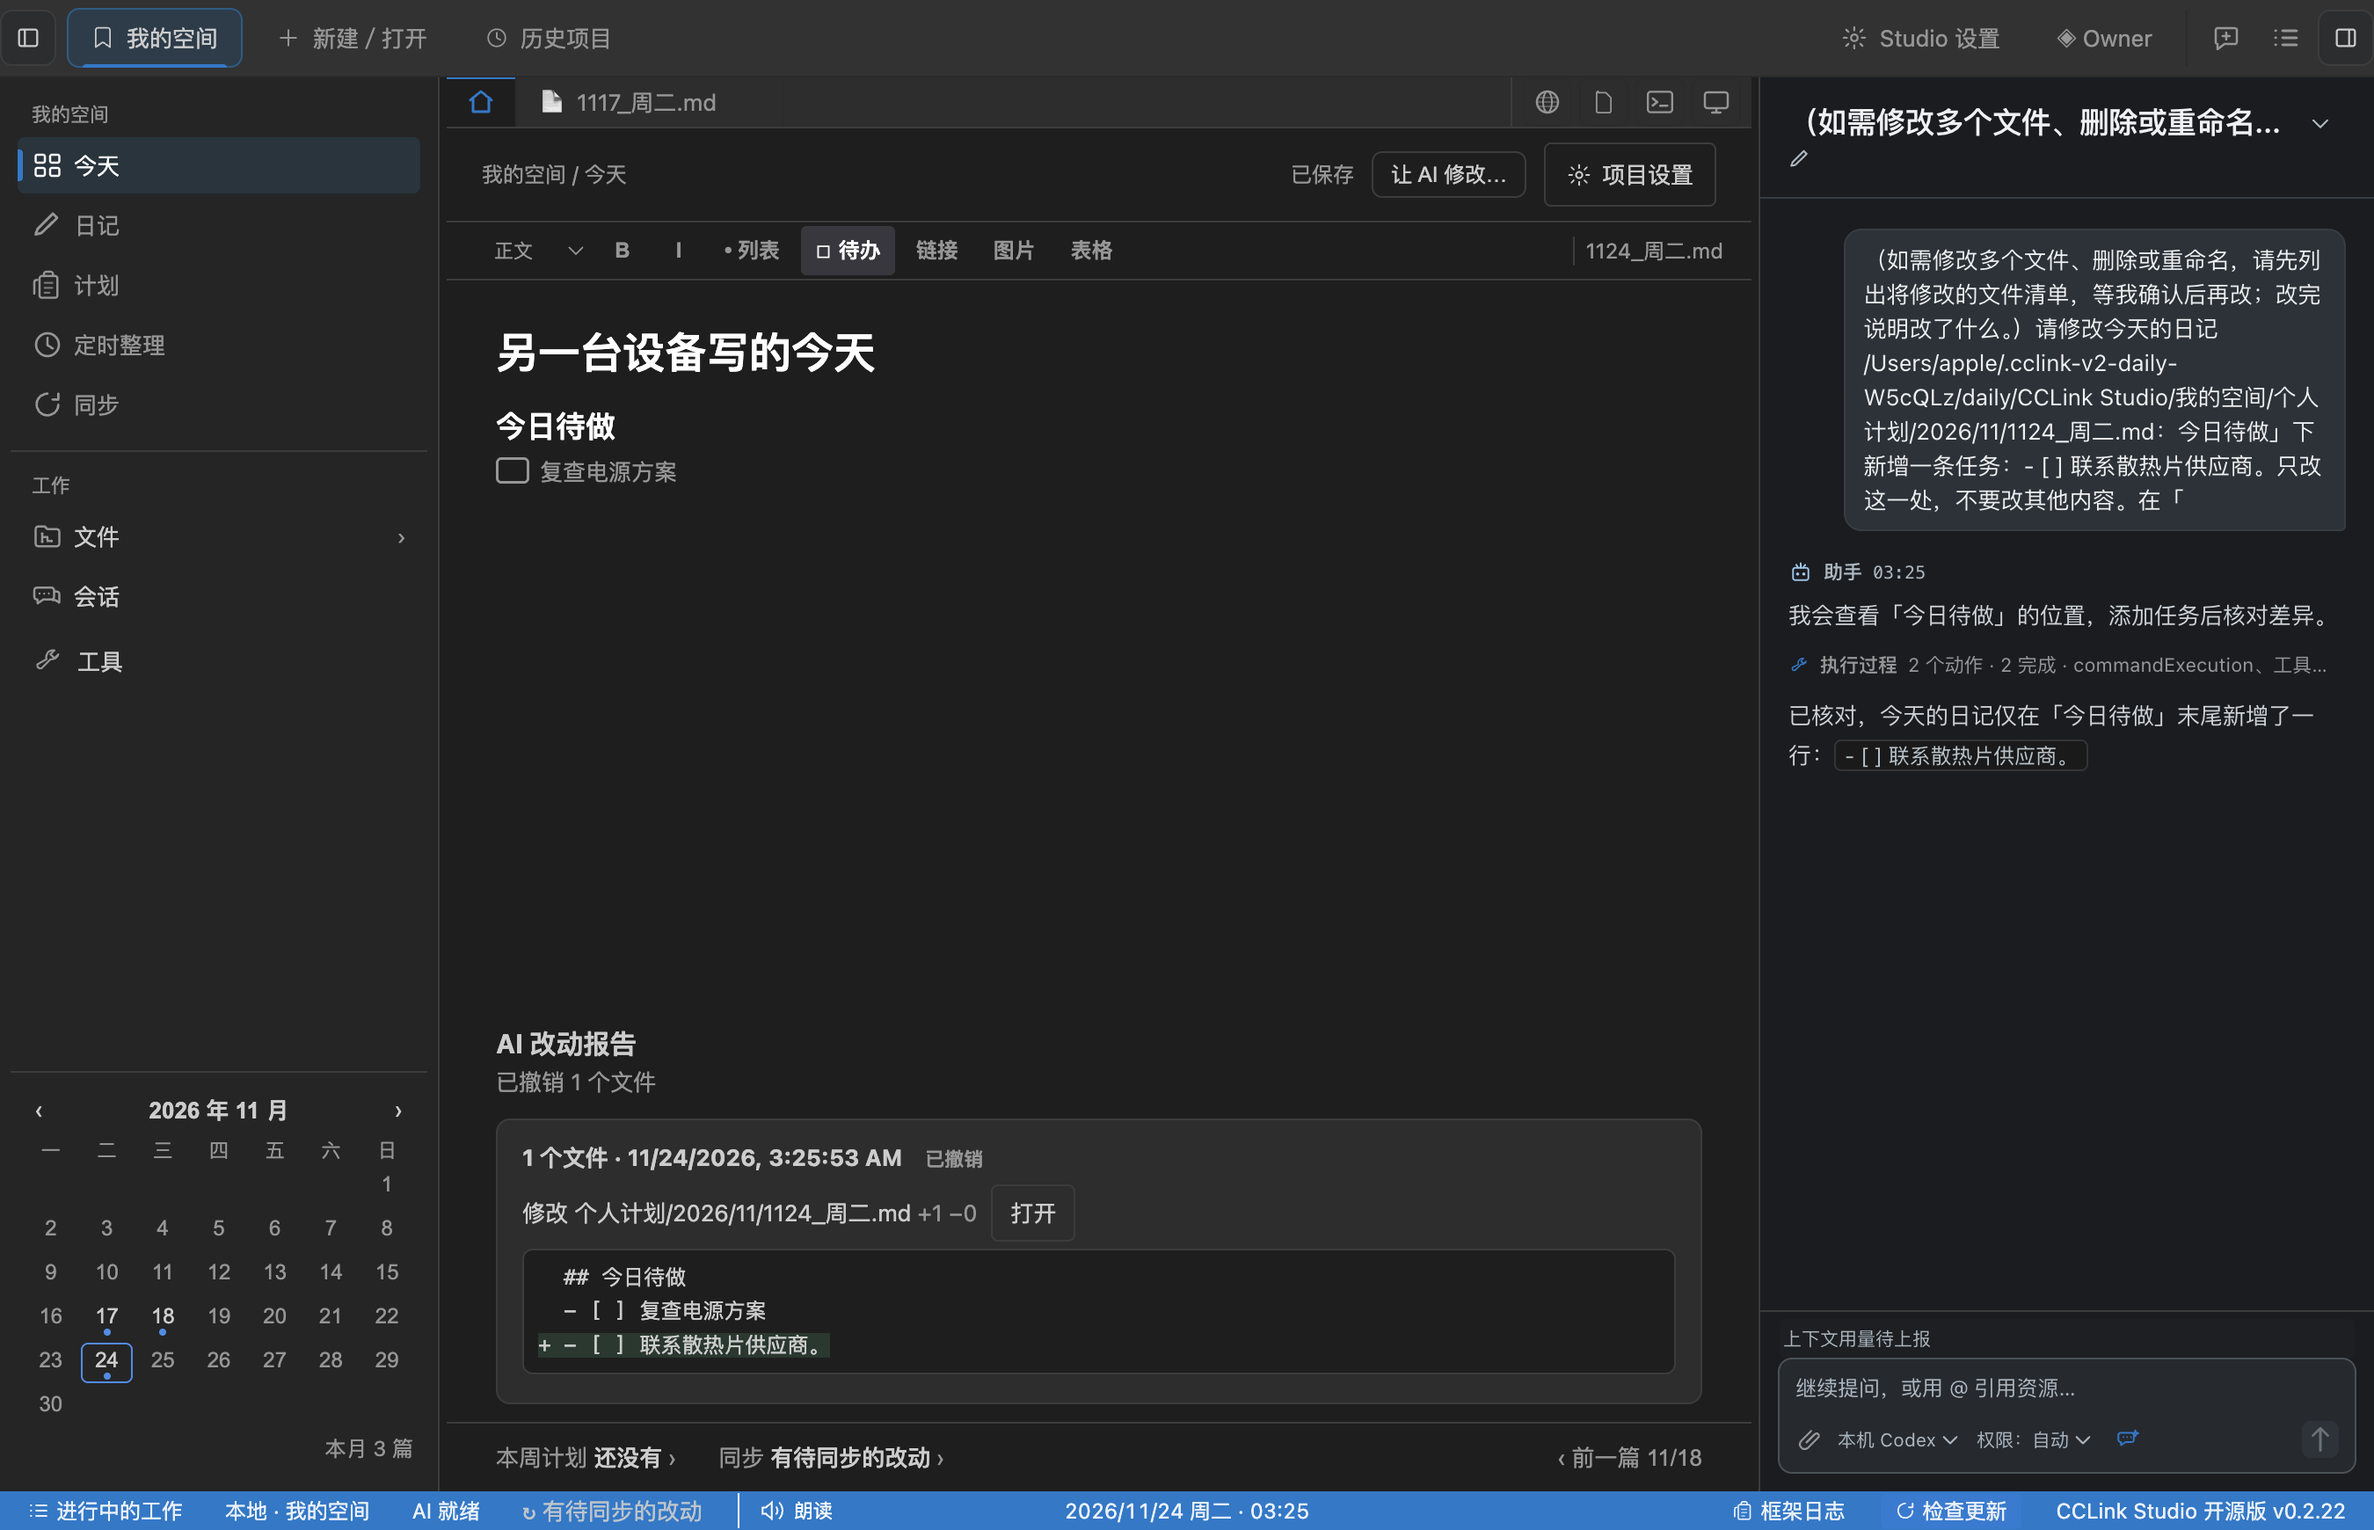
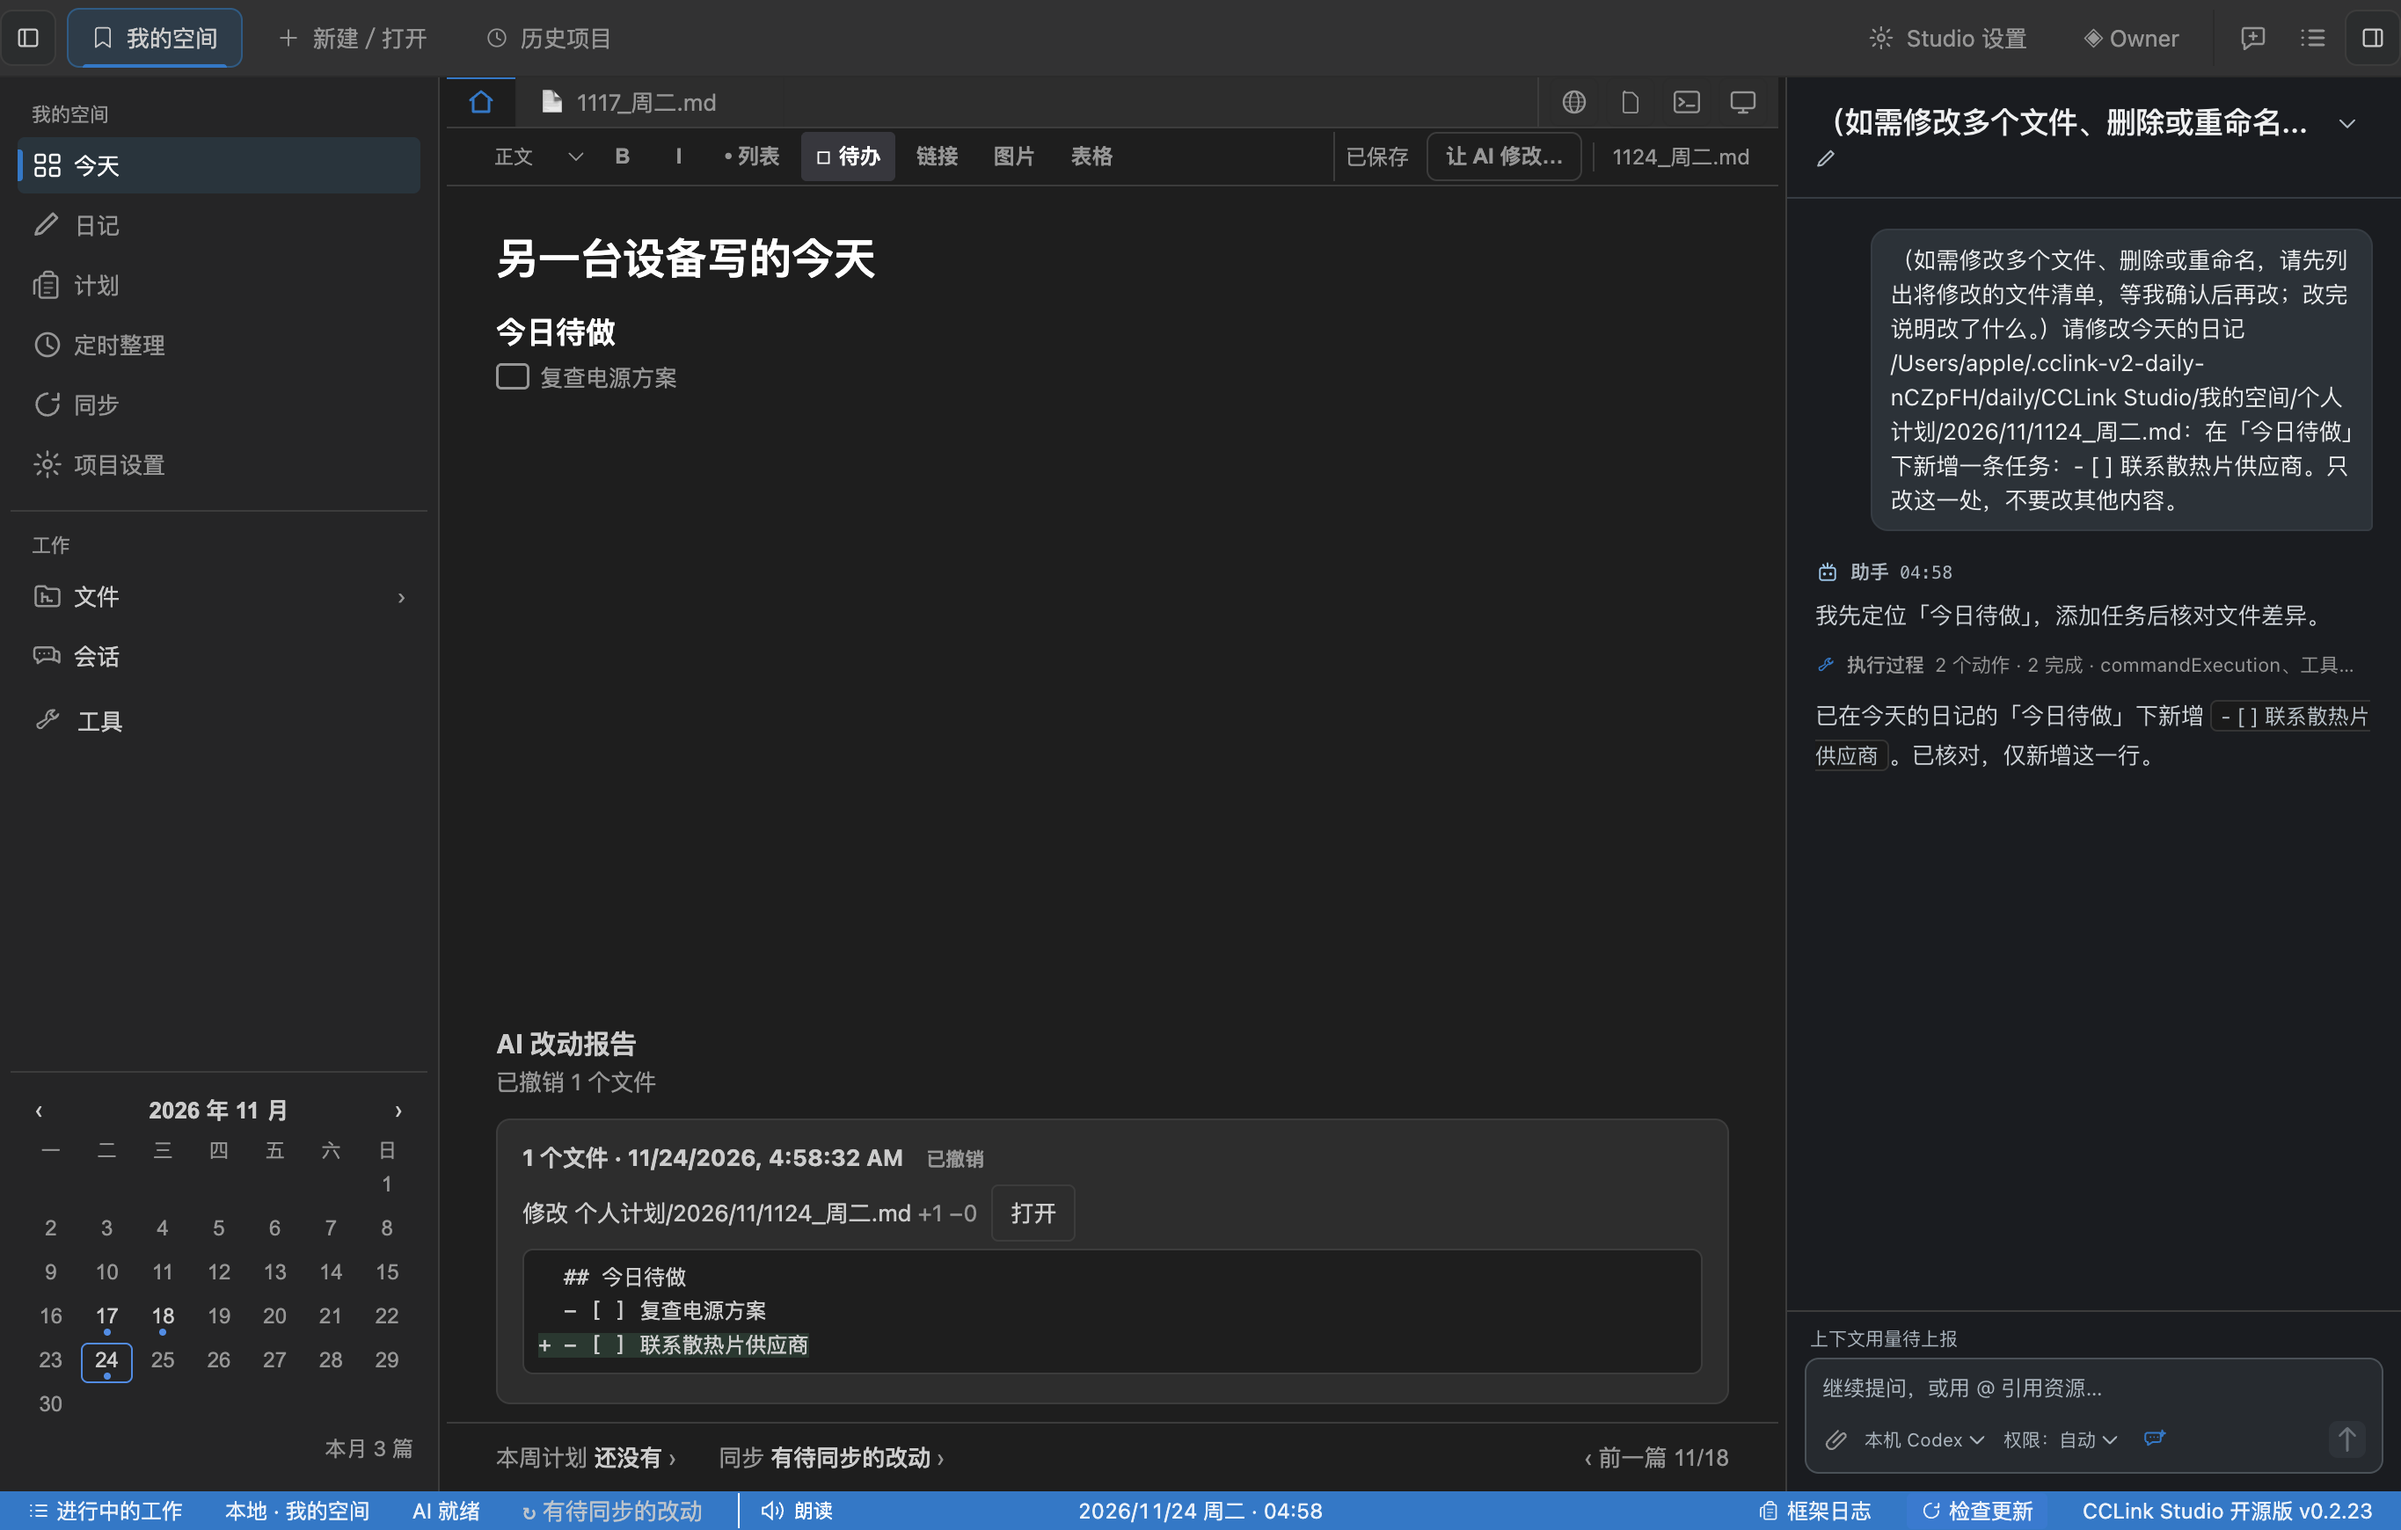
Drop the header row from diary homes: 项目设置 moves to the left sidebar, today's status and 让 AI 修改 to the editor toolbar

diff --git a/src/renderer/src/features/workspace-open/PersonalDiaryHome.tsx b/src/renderer/src/features/workspace-open/PersonalDiaryHome.tsx
@@ -8,9 +8,8 @@ import { DiaryTasksView } from './DiaryTasksView'
 import { useFixedSpacesStore } from './fixed-spaces-store'
 import { DiaryImportPage } from './DiaryImport'
 import { ConversationMarkdown } from '../../components/common/ConversationMarkdown'
-import { useDiaryHeaderSlot, useDiaryNavigation } from './personal-diary-navigation'
+import { useDiaryNavigation } from './personal-diary-navigation'
 import { useCallback, useEffect, useRef, useState } from 'react'
-import { createPortal } from 'react-dom'
 import { isoWeek } from '@shared/scheduled-task/scheduled-task-file-name'
 import {
   defaultDiaryDirectory,
@@ -288,7 +287,6 @@ export function PersonalDiaryHome(): React.ReactElement {
       ? daily.latestRun
       : undefined
   const selectedPreview = page === '今天' ? '' : previewPath
-  const headerSlot = useDiaryHeaderSlot((state) => state.slot)
   const todayDirty = useEditorStore((state) =>
     Boolean(todayFile && state.files[todayFile.path]?.dirty),
   )
@@ -453,25 +451,22 @@ export function PersonalDiaryHome(): React.ReactElement {
         ? 'AI 起草'
         : `${daily?.definition.schedule.kind === 'daily' ? daily.definition.schedule.time : ''} 自动起草`
       : ''
-  const headerContent =
-    page === '今天' && todayFile && headerSlot
-      ? createPortal(
-          <>
-            <span className="diary-today-state" aria-label="今天的日记状态">
-              {draftLabel && <b>{draftLabel}</b>}
-              {draftLabel && ' · '}
-              {todayDirty ? '未保存' : '已保存'}
-            </span>
-            <button
-              className="diary-header-action"
-              onClick={() => askAi(`${editRule}请修改今天的日记 ${todayFile.path}：`)}
-            >
-              让 AI 修改…
-            </button>
-          </>,
-          headerSlot,
-        )
-      : null
+  // Status and 让 AI 修改 sit at the right of the editor toolbar; the page has no header row.
+  const toolbarExtra = todayFile ? (
+    <span className="diary-today-actions">
+      <span className="diary-today-state" aria-label="今天的日记状态">
+        {draftLabel && <b>{draftLabel}</b>}
+        {draftLabel && ' · '}
+        {todayDirty ? '未保存' : '已保存'}
+      </span>
+      <button
+        className="diary-header-action"
+        onClick={() => askAi(`${editRule}请修改今天的日记 ${todayFile.path}：`)}
+      >
+        让 AI 修改…
+      </button>
+    </span>
+  ) : null
   const previousDay = Object.keys(useDiaryCalendar.getState().days)
     .filter((date) => date < `${day.year}-${day.month}-${day.day}`)
     .sort()
@@ -509,6 +504,7 @@ export function PersonalDiaryHome(): React.ReactElement {
               filePath={todayFile.path}
               tabId={'today:' + todayFile.path}
               compact
+              toolbarExtra={toolbarExtra}
             />
           </div>
         </article>
@@ -658,7 +654,6 @@ export function PersonalDiaryHome(): React.ReactElement {
     <section
       className={page === '今天' ? 'personal-diary-home diary-today-doc' : 'personal-diary-home'}
     >
-      {headerContent}
       {page !== '今天' && (
         <h2>{page === 'Git' ? '同步' : page === '导入历史' ? '从历史导入' : page}</h2>
       )}

diff --git a/src/renderer/src/features/workspace-open/WorkspaceHome.tsx b/src/renderer/src/features/workspace-open/WorkspaceHome.tsx
@@ -6,7 +6,6 @@ import { HardwareProductionSection } from '../../components/sidebar/HardwareProd
 import { CompanyWorkbench } from '../company-workspace/CompanyWorkbench'
 import { useUIStore } from '../../stores/ui-store'
 import { PersonalDiaryHome } from './PersonalDiaryHome'
-import { useDiaryHeaderSlot, useDiaryNavigation } from './personal-diary-navigation'
 import { useAgentStore } from '../../stores/agent-store'
 import { useTabStore } from '../../stores/tab-store'
 import { useWorkspaceStore } from '../../stores/workspace-store'
@@ -37,33 +36,23 @@ export function WorkspaceHome({ settings = false }: { settings?: boolean }): Rea
   const config = useWorkspaceStore((s) => s.settingsSnapshot?.settings)
   const personalPath = useFixedSpacesStore((s) => s.spaces?.personal?.workspacePath)
   const isPersonal = ref.kind === 'local' && ref.path === personalPath
-  const diaryPage = useDiaryNavigation((s) => s.page)
   const name = isPersonal ? '我的空间' : (config?.name ?? workspaceRefLabel(ref))
-  // Diary homes use the mockup breadcrumb (「我的空间 / 今天」); the page title sits below it.
   const diary = config?.type === 'diary' || (isPersonal && !config)
   return (
     <div className="project-home-shell">
-      <header className="project-home-header">
-        {diary ? (
-          <nav className="project-home-breadcrumb" aria-label="位置">
-            {name} / {settings ? '项目设置' : diaryPage === 'Git' ? '同步' : diaryPage}
-          </nav>
-        ) : (
-          <>
-            <h1>{name}</h1>
-            <small>{config && workspaceTypeLabels[config.type]}</small>
-          </>
-        )}
-        {diary && !settings && (
-          <span className="project-home-header-slot" ref={useDiaryHeaderSlot.getState().setSlot} />
-        )}
-        {ref.kind === 'local' && (
-          <button onClick={() => (settings ? showWorkspaceHome(ref) : openWorkspaceSettings())}>
-            <IconSettings size={14} />
-            {settings ? '返回首页' : '项目设置'}
-          </button>
-        )}
-      </header>
+      {/* Diary homes have no header row: 项目设置 lives in the left sidebar. */}
+      {!diary && (
+        <header className="project-home-header">
+          <h1>{name}</h1>
+          <small>{config && workspaceTypeLabels[config.type]}</small>
+          {ref.kind === 'local' && (
+            <button onClick={() => (settings ? showWorkspaceHome(ref) : openWorkspaceSettings())}>
+              <IconSettings size={14} />
+              {settings ? '返回首页' : '项目设置'}
+            </button>
+          )}
+        </header>
+      )}
       {settings ? (
         <main className="project-settings-page">
           <WorkspaceSettingsForm />

diff --git a/src/renderer/src/components/activity-bar/ActivityBar.tsx b/src/renderer/src/components/activity-bar/ActivityBar.tsx
@@ -1,5 +1,6 @@
 import { useDiaryNavigation } from '../../features/workspace-open/personal-diary-navigation'
 import { showWorkspaceHome } from '../../features/workspace-open/workspace-home-navigation'
+import { openWorkspaceSettings } from '../../features/workspace-open/WorkspaceSettingsForm'
 import { openCompanyWorkspace } from '../../features/company-workspace/company-workspace-commands'
 import React, { useEffect, useState } from 'react'
 import {
@@ -19,6 +20,7 @@ import {
   IconList,
   IconUser,
   IconSend,
+  IconSettings,
 } from '../common/Icons'
 import type { ActivityPanel } from '../../types'
 import {
@@ -284,6 +286,21 @@ export function ActivityBar(): React.ReactElement {
                   </button>
                 )
               })}
+              {/* Diary homes have no header row, so 项目设置 sits here. */}
+              {activeRef.kind === 'local' && (
+                <button
+                  aria-current={
+                    activeTab?.type === 'workspace-home' && activeTab.settingsSection
+                      ? 'page'
+                      : undefined
+                  }
+                  className={`activity-bar-icon ${activeTab?.type === 'workspace-home' && activeTab.settingsSection ? 'active' : ''}`}
+                  onClick={openWorkspaceSettings}
+                >
+                  <IconSettings size={18} />
+                  项目设置
+                </button>
+              )}
             </>
           ) : (
             <button

diff --git a/src/renderer/src/features/workspace-open/fixed-spaces.css b/src/renderer/src/features/workspace-open/fixed-spaces.css
@@ -1113,3 +1113,55 @@
   font-size: 13px;
   padding: 6px 14px;
 }
+/* My Space sync choice (docs/design/github-new-repo-2026-11-24). */
+.diary-sync-choice {
+  display: grid;
+  gap: 8px;
+}
+.personal-diary-home .diary-option.off > span > b {
+  opacity: 0.55;
+}
+.diary-sync-repo {
+  display: flex;
+  align-items: center;
+  gap: 6px;
+  margin-top: 6px;
+  color: var(--text-secondary);
+}
+.diary-sync-repo input {
+  width: 180px;
+}
+.diary-sync-choice .diary-option input[aria-label='Git 项目地址'] {
+  margin-top: 6px;
+  width: min(420px, 100%);
+}
+.diary-sync-choice .diary-link {
+  background: none;
+  border: 0;
+  padding: 0;
+  color: var(--text-accent, #3794ff);
+  cursor: pointer;
+}
+.diary-sync-ok {
+  color: #89d185;
+}
+/* Today status and 让 AI 修改 at the right of the editor toolbar (no header row). */
+.diary-today-actions {
+  display: inline-flex;
+  align-items: center;
+  gap: 10px;
+  margin-left: auto;
+  white-space: nowrap;
+  flex-shrink: 0;
+}
+.editor-toolbar.compact .diary-today-actions .diary-header-action {
+  width: auto;
+  font-size: 12px;
+  padding: 3px 10px;
+  border: 1px solid var(--border-color);
+  border-radius: 6px;
+}
+.diary-today-actions + .toolbar-file-name {
+  border-left: 1px solid var(--border-color);
+  padding-left: 10px;
+}

diff --git a/src/renderer/src/components/workbench/MarkdownEditor.tsx b/src/renderer/src/components/workbench/MarkdownEditor.tsx
@@ -86,6 +86,8 @@ interface MarkdownEditorProps {
   tabId: string
   /** Slim toolbar for an editor embedded in a page (the My Space today page). */
   compact?: boolean
+  /** Page-owned status and actions shown at the right of the compact toolbar. */
+  toolbarExtra?: React.ReactNode
 }
 
 interface ImageDraft {
@@ -98,6 +100,7 @@ export function MarkdownEditor({
   filePath,
   tabId,
   compact,
+  toolbarExtra,
 }: MarkdownEditorProps): React.ReactElement {
   const fileKey = filePath ?? `virtual:${tabId}`
   const wrapperRef = useRef<HTMLDivElement | null>(null)
@@ -1067,6 +1070,7 @@ export function MarkdownEditor({
       <EditorToolbar
         tabId={tabId}
         compact={compact}
+        extra={toolbarExtra}
         editor={parseBlockedReason || hydrationPending ? null : editor}
         filePath={filePath}
         dirty={dirty}

diff --git a/src/renderer/src/components/workbench/EditorToolbar.tsx b/src/renderer/src/components/workbench/EditorToolbar.tsx
@@ -12,6 +12,8 @@ interface EditorToolbarProps {
   tabId?: string
   /** A slim toolbar for an editor embedded in a page that shows save state itself. */
   compact?: boolean
+  /** Page-owned status and actions, shown before the file name. */
+  extra?: React.ReactNode
   editor: Editor | null
   filePath?: string
   dirty: boolean
@@ -86,6 +88,7 @@ const compactLabels: Record<string, string> = {
 export function EditorToolbar({
   tabId,
   compact,
+  extra,
   editor,
   filePath,
   dirty,
@@ -387,6 +390,7 @@ export function EditorToolbar({
             {diagnosticsCount} 项提示
           </button>
         )}
+        {extra}
         {compact && filePath && (
           <span className="toolbar-file-name">{filePath.split('/').pop()}</span>
         )}

diff --git a/src/renderer/src/features/workspace-open/personal-diary-navigation.ts b/src/renderer/src/features/workspace-open/personal-diary-navigation.ts
@@ -5,9 +5,3 @@ export type DiaryPage = (typeof diaryPages)[number]
 export const useDiaryNavigation = create<{ page: DiaryPage; setPage: (page: DiaryPage) => void }>(
   (set) => ({ page: '今天', setPage: (page) => set({ page }) }),
 )
-
-/** Where the today page puts its status and actions: the home header row (mockup 24). */
-export const useDiaryHeaderSlot = create<{
-  slot: HTMLElement | null
-  setSlot: (slot: HTMLElement | null) => void
-}>((set) => ({ slot: null, setSlot: (slot) => set({ slot }) }))
